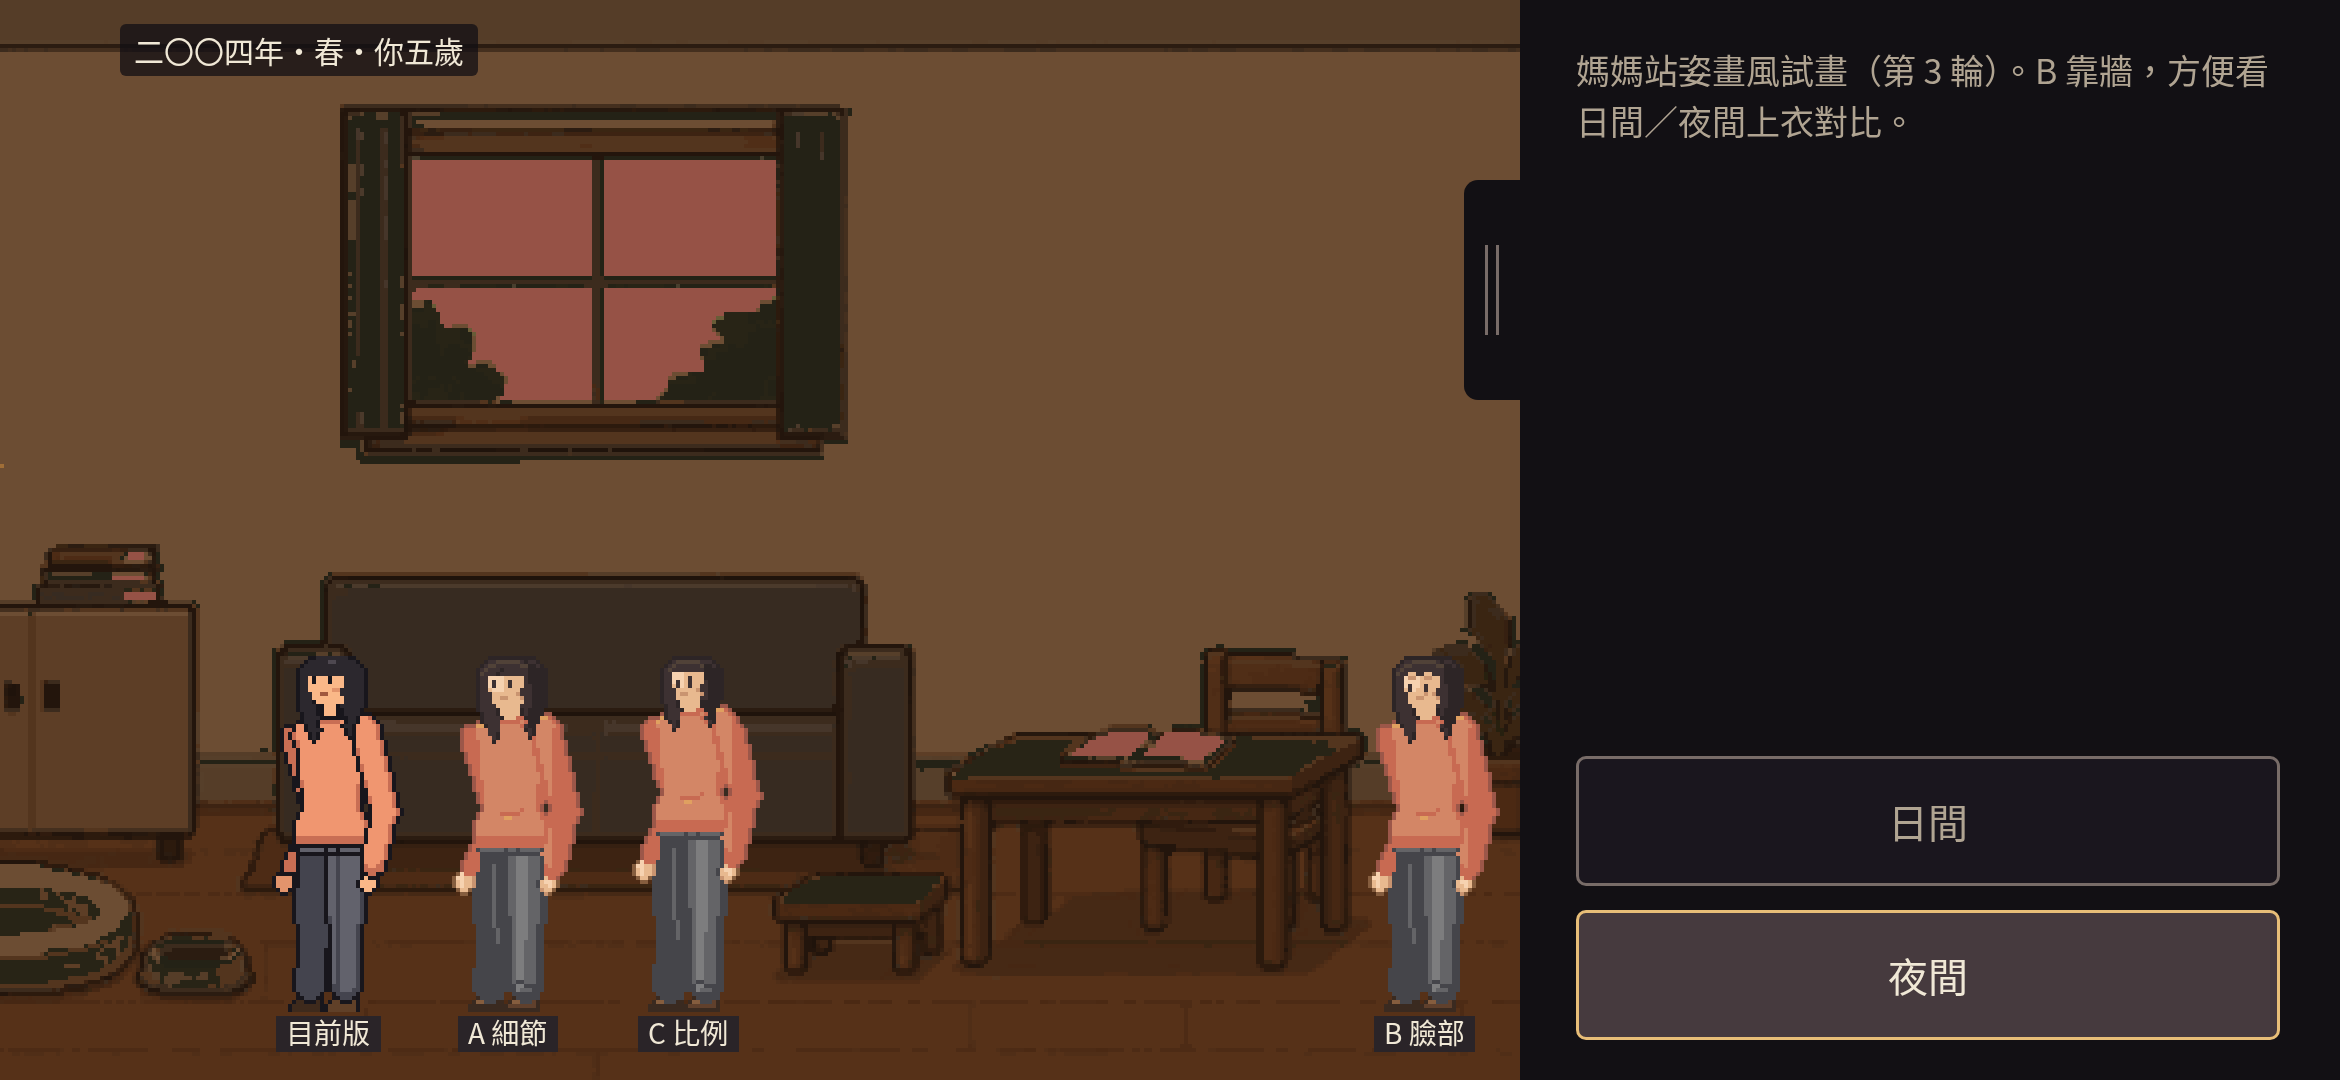
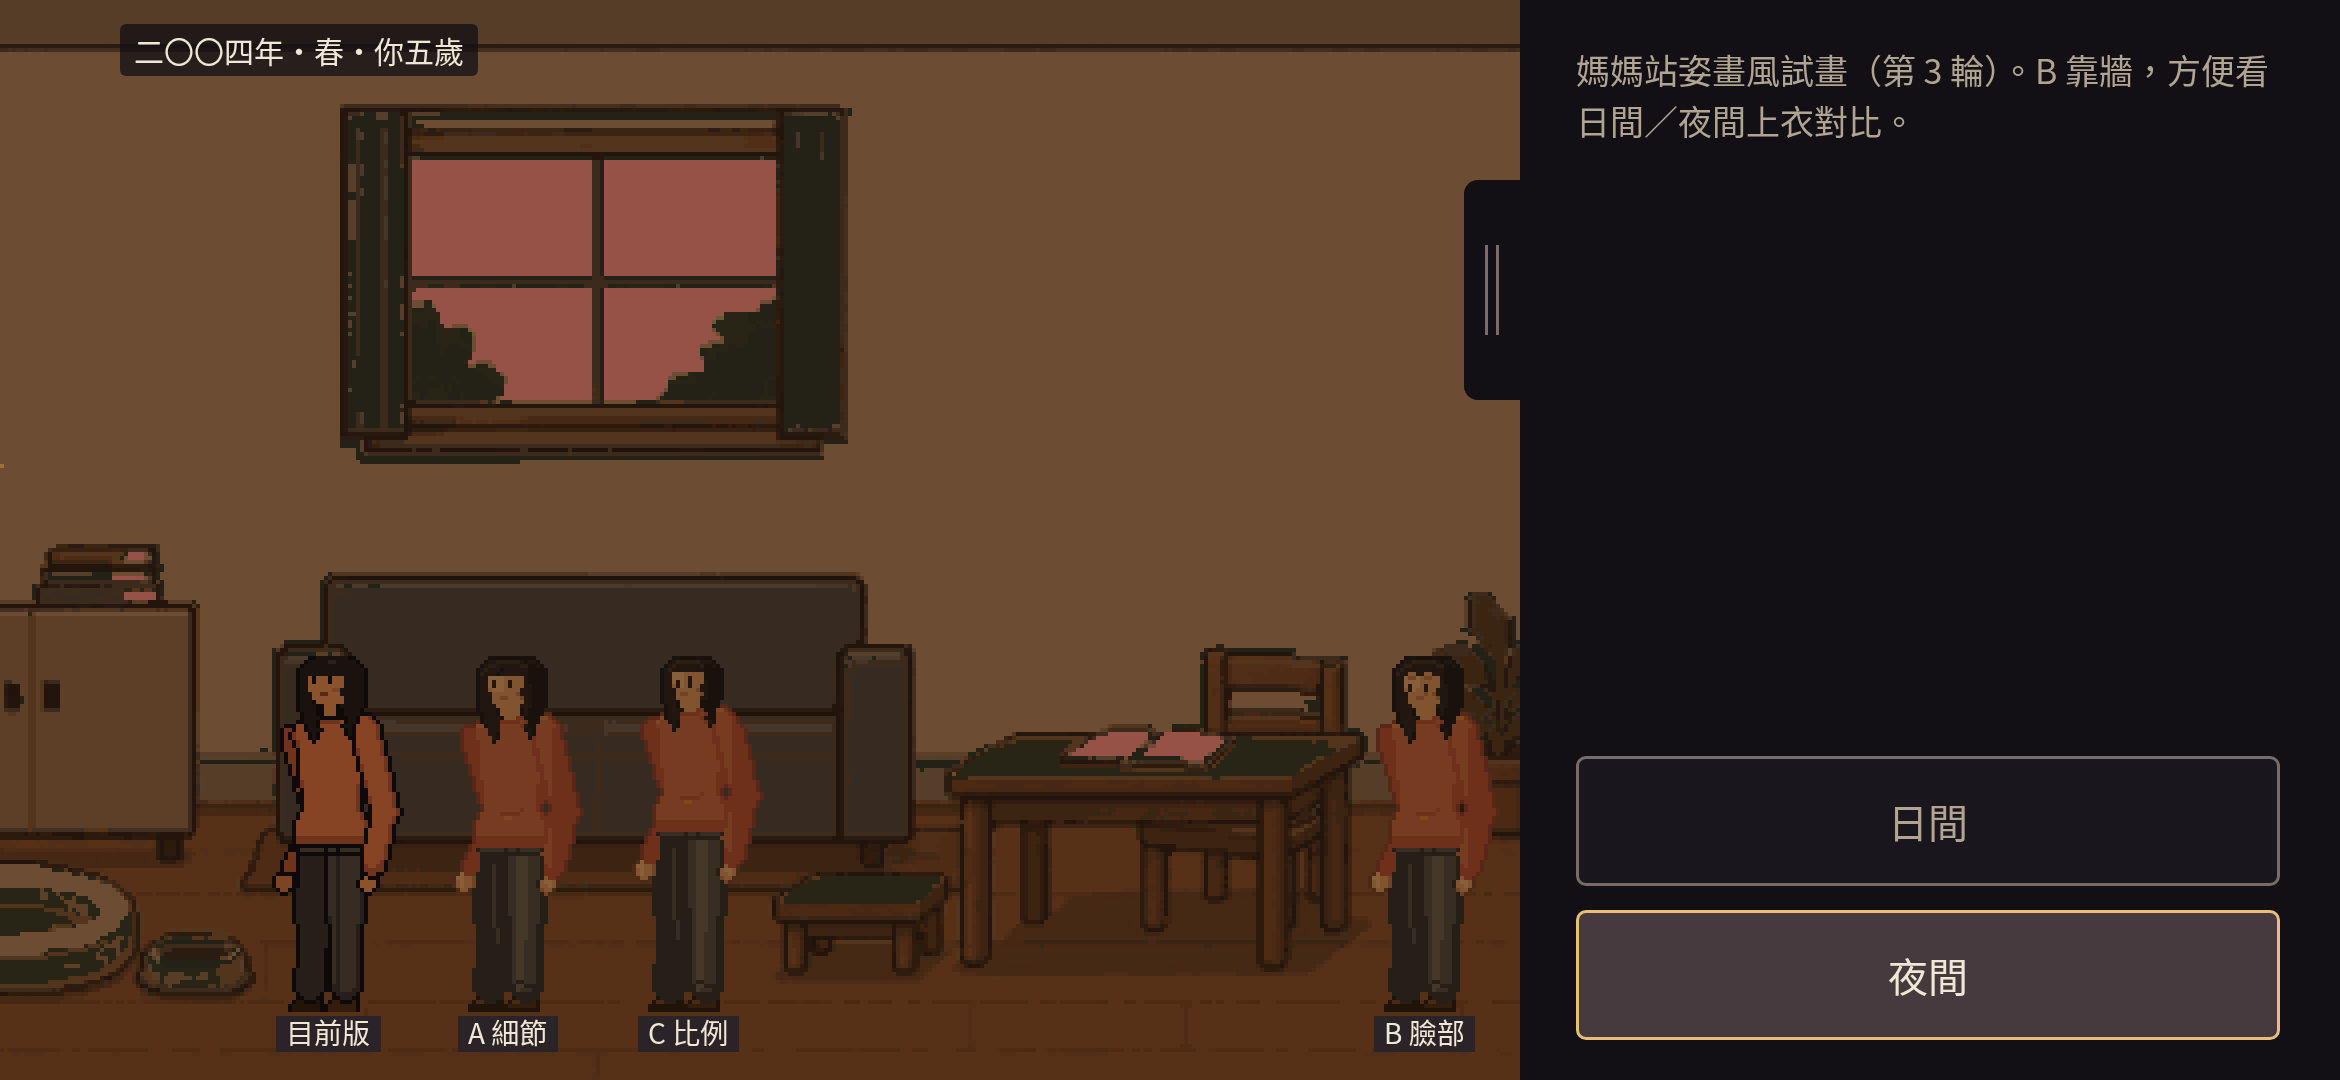
Phone B DEV: apply room evening multiply to style_trial_mom sprites
Evening mode now tints characters at render time with the same (142,115,83) multiply the living-room uses. Day mode and the PNG files are unchanged.

Changed region(s): [[0.0936, 0.6111, 0.3432, 0.9472], [0.5615, 0.6111, 0.6551, 0.9472]]

diff --git a/game.js b/game.js
@@ -1673,6 +1673,10 @@ function drawPixelboltTrial(now) {
 // One-line swap: change STYLE_TRIAL_MOM_SRC_DIR to 'assets/chars/style_trial_mom/r2' (or a future round).
 const STYLE_TRIAL_MOM_SRC_DIR = 'assets/chars/style_trial_mom/r3';
 const STYLE_TRIAL_MOM_FLOOR = 252;
+// Room ambient evening multiply, fitted from room_daylight → room_evening
+// (median channel ratio of non-sky pixels). (142,115,83)/255 recovers the
+// beige wall (194,171,157) → (108,77,51) exactly. Applied at render time only.
+const STYLE_TRIAL_MOM_EVENING_MUL = [142, 115, 83];
 const STYLE_TRIAL_MOM_VERSIONS = [
   { id: 'current', label: '目前版', file: 'current.png', x: 132 },
   { id: 'A',       label: 'A 細節', file: 'A.png',       x: 177 },
@@ -1690,7 +1694,7 @@ async function initStyleTrialMom(lighting) {
   for (const v of STYLE_TRIAL_MOM_VERSIONS) {
     const src = STYLE_TRIAL_MOM_SRC_DIR + '/' + v.file;
     const img = await load(src);
-    versions.push({ id: v.id, label: v.label, src: src, file: v.file, x: v.x, feet: STYLE_TRIAL_MOM_FLOOR, flip: false, ax: 27, ay: 115, img: img });
+    versions.push({ id: v.id, label: v.label, src: src, file: v.file, x: v.x, feet: STYLE_TRIAL_MOM_FLOOR, flip: false, ax: 27, ay: 115, img: img, imgEvening: stmTintEvening(img) });
   }
   styleTrialMom = {
     srcDir: STYLE_TRIAL_MOM_SRC_DIR,
@@ -1699,11 +1703,33 @@ async function initStyleTrialMom(lighting) {
     rooms: { daylight: day, evening: eve },
     floorLine: STYLE_TRIAL_MOM_FLOOR,
     facing: 'W as drawn (no flip)',
-    note: 'Same game scale (×4, anchor (27,115), feet on floor_line 252). B stands against the wall (right of the table) so coral-vs-wall can be judged in evening light. Plant is scenery behind B’s right shoulder; feet are on clear floor. Swap SRC_DIR to change the round.',
+    note: 'Same game scale (×4, anchor (27,115), feet on floor_line 252). B stands against the wall (right of the table) so coral-vs-wall can be judged in evening light. Plant is scenery behind B’s right shoulder; feet are on clear floor. Swap SRC_DIR to change the round. Evening uses the room multiply on sprites at render time; PNGs are not modified.',
+    eveningMul: STYLE_TRIAL_MOM_EVENING_MUL,
     versions: versions,
   };
   window.STYLE_TRIAL_MOM = styleTrialMom;
   stmRefreshLitButtons();
+}
+
+function stmTintEvening(im) {
+  const c = document.createElement('canvas');
+  c.width = im.width; c.height = im.height;
+  const g = c.getContext('2d');
+  g.drawImage(im, 0, 0);
+  const d = g.getImageData(0, 0, c.width, c.height), px = d.data;
+  const [mr, mg, mb] = STYLE_TRIAL_MOM_EVENING_MUL;
+  for (let i = 0; i < px.length; i += 4) {
+    if (!px[i + 3]) continue;
+    px[i]     = Math.round(px[i]     * mr / 255);
+    px[i + 1] = Math.round(px[i + 1] * mg / 255);
+    px[i + 2] = Math.round(px[i + 2] * mb / 255);
+  }
+  g.putImageData(d, 0, 0);
+  return c;
+}
+
+function stmSprite(ch) {
+  return (styleTrialMom && styleTrialMom.lighting === 'evening' && ch.imgEvening) ? ch.imgEvening : ch.img;
 }
 
 function stmRefreshLitButtons() {
@@ -1739,7 +1765,7 @@ function drawStyleTrialMom(now) {
       gP.imageSmoothingEnabled = false;
       gP.drawImage(room, 0, 0);
       for (const ch of styleTrialMom.versions) {
-        gP.drawImage(ch.img, ch.x - ch.ax, ch.feet - ch.ay);
+        gP.drawImage(stmSprite(ch), ch.x - ch.ax, ch.feet - ch.ay);
       }
     }
     return;
@@ -1751,7 +1777,7 @@ function drawStyleTrialMom(now) {
   for (const ch of styleTrialMom.versions) {
     const sx = 210 + ch.x * 4;
     const sy = ch.feet * 4;
-    gL.drawImage(ch.img, sx - ch.ax * 4, sy - ch.ay * 4, 56 * 4, 116 * 4);
+    gL.drawImage(stmSprite(ch), sx - ch.ax * 4, sy - ch.ay * 4, 56 * 4, 116 * 4);
     ch._labelBox = devFloorLabel(gL, ch.label, sx, ch.feet);
   }
 }
